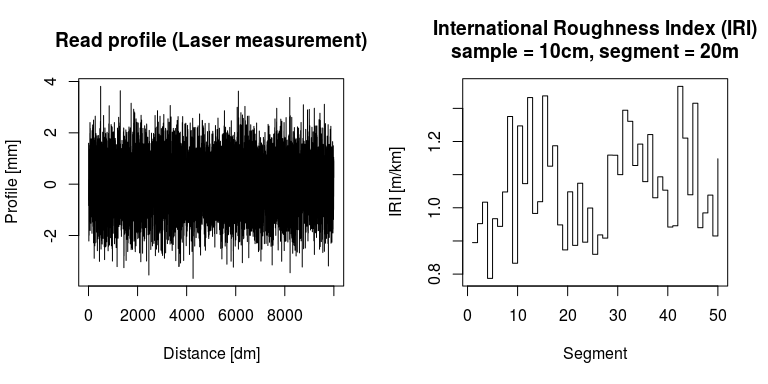
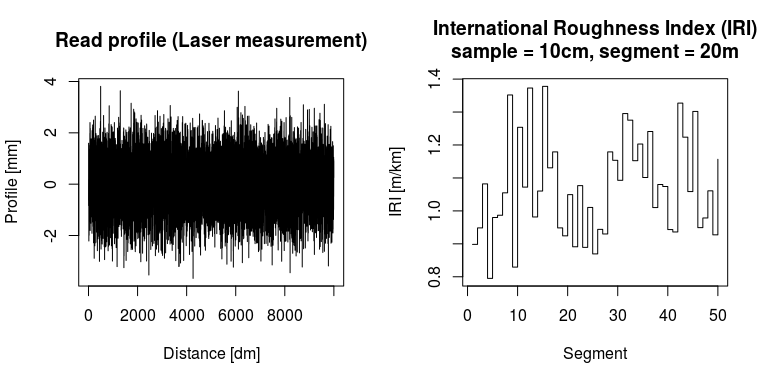
added "issuestats" badge

diff --git a/README.md b/README.md
@@ -6,7 +6,7 @@ Set of tools for monitoring road condition
 
 -   International Roughness Index (IRI) computation
 
-[![Build Status](https://travis-ci.org/vsimko/rroad.svg)](https://travis-ci.org/vsimko/rroad) [![codecov.io](https://codecov.io/github/vsimko/rroad/coverage.svg?branch=master)](https://codecov.io/github/vsimko/rroad?branch=master)
+[![Build Status](https://travis-ci.org/vsimko/rroad.svg)](https://travis-ci.org/vsimko/rroad) [![codecov.io](https://codecov.io/github/vsimko/rroad/coverage.svg?branch=master)](https://codecov.io/github/vsimko/rroad?branch=master) [![Issue Stats](http://issuestats.com/github/vsimko/rroad/badge/pr)](http://issuestats.com/github/vsimko/rroad) [![Issue Stats](http://issuestats.com/github/vsimko/rroad/badge/issue)](http://issuestats.com/github/vsimko/rroad)
 
 Download and Install
 --------------------
@@ -23,7 +23,7 @@ Examples
 
 ``` r
 profile <- rnorm(10000)
-iri <- CalculateIRI(profile, IRI_COEF_100, 20)
+iri <- CalculateIRIperSegments(profile, IRI_COEF_100, 20)
 par(mfrow = c(1,2)) # space for two diagrams
 plot(profile, type="l",
   xlab="Distance [dm]", ylab="Profile [mm]",
